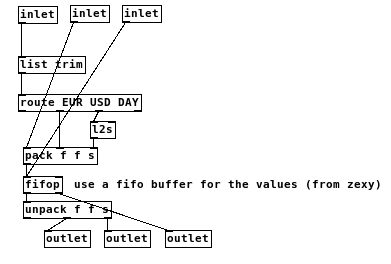
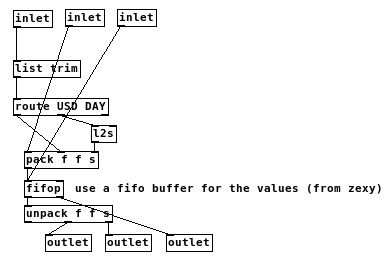
Correct and clarify examples and manual.

Changed region(s): [[0.031, 0.0, 0.9922, 0.9697], [0.2481, 0.1818, 0.2791, 0.2121]]

diff --git a/manual/rest-And-oauth-Making-HTTP-Requests.html b/manual/rest-And-oauth-Making-HTTP-Requests.html
@@ -27,7 +27,7 @@
 <p><code>[oauth]</code> is used for <a href="http://tools.ietf.org/html/rfc5849">OAuth 1.0</a> requests, and can issue <code>GET</code>, <code>POST</code>, <code>PUT</code>, <code>DELETE</code>, <code>HEAD</code>, <code>PATCH</code>, <code>OPTIONS</code> and <code>TRACE</code>. </p>
 <h2>Common Functionality</h2>
 <p>Both <code>[rest]</code> and <code>[oauth]</code> can be initialized with a base URL and additional parameters either as creation arguments or using the <code>[init(</code> message.</p>
-<p>Both objects can issue GET, POST, PUT, DELETE, HEAD, PATCH, OPTIONS and TRACE requests.</p>
+<p>Both objects can issue GET, POST, PUT, DELETE, HEAD, PATCH, OPTIONS, and TRACE requests.</p>
 <p>After a successful HTTP request (HTTP stati with a numerical value of at least 200 and less than 300), both objects will output the message body on the left outlet, followed by a <code>bang</code> on the right outlet. HTTP redirects by stati 301 and 302 are followed by the objects.</p>
 <p>If the HTTP result is not successful as defined above, then the right outlet will output a float with the HTTP error code, and on the console the HTTP status will be output as an error message, e.g. <code>HTTP error while performing request: 404</code> on console, <code>404</code> on right outlet.</p>
 <p>If there is an error during the HTTP request (timeout, DNS problems), then the right outlet will output a list with the cURL error code and the message, while additionally outputting the message on the console, e.g. <code>Error while performing request: Timeout was reached</code> on console, <code>28 Timeout was reached</code> on right outlet.</p>
@@ -44,27 +44,32 @@
 <p>Some webservices return different values for different <code>Accept:</code> HTTP headers. In that case, you can use
 <code>[header Accept: application/json(</code> to add the line <code>Accept: application/json</code> to the HTTP request.</p>
 <p>Github requires a <code>User-Agent:</code> HTTP header to return value. You can use <code>[header User-Agent: My User Agent(</code> to set the value.</p>
+<h3>Disabling Checking TLS Certificates</h3>
+<p>If the server uses a self-signed TLS certificate or the certificate authority (CA) is not recognised by your system, an SSL secured request will fail with an error message of <code>SSL peer certificate or SSH remote key was not OK</code> and a <code>51 SSL peer certificate or SSH remote key was not OK</code> on the right outlet. To disable checking for valid certificates, use a message of <code>[sslcheck 0(</code>. You can reenable the check with <code>[sslcheck 1(</code></p>
+<p><strong>Caveat:</strong></p>
+<p>Before doing that, <a href="http://pic.dhe.ibm.com/infocenter/wmqv7/v7r1/topic/com.ibm.mq.doc/sy10670_.htm">you should be aware of the risks</a>.</p>
+<h3>Using Proxies</h3>
+<p>You can configure the usage of a proxy with <code>[proxy(</code>. This message takes 0, 1 or 3 parameters. Use one parameter to set the URL of the proxy including protocol and port number. If your proxy needs username and passwortd, then add those as second and third additional parameter. To clear the proxy settings, use an empty <code>[proxy(</code> message.</p>
+<p><strong>Examples:</strong></p>
+<p><code>[proxy http://127.0.0.1:1234(</code> will set the proxy without username and password.</p>
+<p><code>[proxy socks5://127.0.0.1:2050 me mysecret(</code> will set the proxy using username <code>me</code> and password <code>mysecret</code>.</p>
 <h3>Downloading to File</h3>
 <p>The <code>[file(</code> message with an additional parameter will set the path to a file, where the downloaded content will be stored. This will not check immediately, if the file is writable, as this property in the file system may change any time.</p>
 <p>If a file path is set, then a successful download will not be output on the left outlet, but will be written to that location. If that location is not writable to Pd, then the content will generate output on the left outlet regardless, and post a message to the console.</p>
 <p>The right outlet of <code>[rest]</code> and <code>[oauth]</code> will output the same values as with a other HTTP request.</p>
 <p>To clear the download location, use a <code>[file(</code> message without a parameter.</p>
-<h3>Disabling Checking TLS Certificates</h3>
-<p>If the server uses a self-signed TLS certificate or the certificate authority (CA) is not recognised by your setup, an SSL secured request will fail with an error message of <code>SSL peer certificate or SSH remote key was not OK</code> and a <code>51 SSL peer certificate or SSH remote key was not OK</code> on the right outlet. To disable checking for valid certificates, use a message of <code>[sslcheck 0(</code>. You can reenable the check with <code>[sslcheck 1(</code></p>
-<p><strong>Caveat:</strong></p>
-<p>Before doing that, <a href="http://pic.dhe.ibm.com/infocenter/wmqv7/v7r1/topic/com.ibm.mq.doc/sy10670_.htm">you should be aware of the risks</a>.</p>
 <h3>Consuming Streaming API</h3>
 <p>If a service returns its data with a streaming API, you can output the data whenever a chunk is received. To set the mode to streaming, send a message <code>[mode stream(</code> to the object. To return to the standard blocking mode, send <code>[mode block(</code> to the object. The mode can be set during processing of a request.</p>
 <p>This is useful for webservices that keep connections open and send data on events, e.g. Twitter streaming API.</p>
 <h2><code>[rest]</code>: HTTP Requests</h2>
-<p><code>[rest]</code> accepts the following HTTP verbs: GET, POST, PUT, DELETE, HEAD, PATCH, TRACE and OPTIONS. The messages corresponding to the requests are <code>[GET(</code>, <code>[POST(</code>, <code>[PUT(</code>, <code>[DELETE(</code>, <code>[HEAD(</code>, <code>[PATCH(</code>, <code>[TRACE(</code> and <code>[OPTIONS(</code>, and these messages need at least one additional parameter, the URL of the requests. If you have set a base URL, the URL is concatenated with the base URL.</p>
+<p><code>[rest]</code> accepts the following HTTP verbs: GET, POST, PUT, DELETE, HEAD, PATCH, TRACE, and OPTIONS. The messages corresponding to the requests are <code>[GET(</code>, <code>[POST(</code>, <code>[PUT(</code>, <code>[DELETE(</code>, <code>[HEAD(</code>, <code>[PATCH(</code>, <code>[TRACE(</code>, and <code>[OPTIONS(</code>, and these messages need at least one additional parameter, the URL of the requests. If you have set a base URL, the URL is concatenated with the base URL.</p>
 <p><strong>Examples:</strong></p>
 <ul>
 <li>If the base URL is set to <code>http://www.example.com/</code>, then <code>[GET data/1(</code> will send an HTTP GET request to <code>http://www.example.com/data/1</code>.</li>
 <li>If no base URL is set, then <code>[DELETE http://www.example.com/data/1(</code> will send an HTTP DELETE request to <code>http://www.example.com/data/1</code>.</li>
 <li>If the base URL is set to <code>http://www.example.com/</code>, then <code>[GET http://www.example.com/data/1(</code> will send an HTTP GET request to <code>http://www.example.com/http://www.example.com/data/1</code> (and probably result in a 404 error).</li>
 </ul>
-<p><code>[POST(</code>, <code>[PUT(</code> and <code>[PATCH(</code> requests usually need additional data. This data is set as additional parameters. These parameters are concatenated with a space in between.</p>
+<p><code>[POST(</code>, <code>[PUT(</code>, and <code>[PATCH(</code> requests usually need additional data. This data is set as additional parameters. These parameters are concatenated with a space in between.</p>
 <p><strong>Example:</strong></p>
 <p><code>[POST http://www.example.com/data id=1&amp;name=my%20name(</code> will send an HTTP POST request to <code>http://www.example.com/data</code> and include <code>id=1&amp;name=my%20name</code> as POST parameters.</p>
 <h3>Initialization</h3>
@@ -97,13 +102,13 @@
 </ol>
 <p>Only the first returned cookie will be used, and only one value at a time will be saved. The parameters for sending the username and password to the server cannot be renamed. This works e.g. for CouchDB logins.</p>
 <h2><code>[oauth]</code>: OAuth 1.0 Requests</h2>
-<p><code>[oauth]</code> accepts the following HTTP verbs: GET, POST, PUT, DELETE, HEAD, PATCH, TRACE and OPTIONS. The messages corresponding to the requests are <code>[GET(</code>, <code>[POST(</code>, <code>[PUT(</code>, <code>[DELETE(</code>, <code>[HEAD(</code>, <code>[PATCH(</code>, <code>[TRACE(</code> and <code>[OPTIONS(</code>, and these messages need at least one additional parameter, the URL of the requests relative to the base URL.</p>
+<p><code>[oauth]</code> accepts the following HTTP verbs: GET, POST, PUT, DELETE, HEAD, PATCH, TRACE, and OPTIONS. The messages corresponding to the requests are <code>[GET(</code>, <code>[POST(</code>, <code>[PUT(</code>, <code>[DELETE(</code>, <code>[HEAD(</code>, <code>[PATCH(</code>, <code>[TRACE(</code>, and <code>[OPTIONS(</code>, and these messages need at least one additional parameter, the URL of the requests relative to the base URL.</p>
 <p><strong>Examples:</strong></p>
 <ul>
 <li>If the base URL is set to <code>http://www.example.com/</code>, then <code>[GET data/1(</code> will send an HTTP GET request to <code>http://www.example.com/data/1</code>.</li>
 <li>If the base URL is set to <code>http://www.example.com/</code>, then <code>[GET http://www.example.com/data/1(</code> will send an HTTP GET request to <code>http://www.example.com/http://www.example.com/data/1</code> (and probably result in a 404 error).</li>
 </ul>
-<p><code>[POST(</code>, <code>[PUT(</code> and <code>[PATCH(</code> requests usually need additional data. This data is set as additional parameters. These parameters are concatenated with a space in between.</p>
+<p><code>[POST(</code>, <code>[PUT(</code>, and <code>[PATCH(</code> requests usually need additional data. This data is set as additional parameters. These parameters are concatenated with a space in between.</p>
 <p><strong>Example:</strong></p>
 <p>If the base URL is set to <code>http://www.example.com/</code>, then <code>[POST data id=1&amp;name=my%20name(</code> will send an HTTP POST request to <code>http://www.example.com/data</code> and include <code>id=1&amp;name=my%20name</code> as POST parameters.</p>
 <h3>Initialization</h3>

diff --git a/manual/Contributing-and-Code-Documentation.html b/manual/Contributing-and-Code-Documentation.html
@@ -46,16 +46,18 @@
 </ol>
 <h3>Names of Setup Functions</h3>
 <p>When Pd tries to load an object, it is looking for the file with the correct platform specific suffix (.pd_linux, .pd_darwin, .dll, .pd_freebsd) and the same name, e.g. to create <code>[json-encode]</code>, Pd on Windows looks for a file <code>json-encode.dll</code>.</p>
-<p>In this library file, Pd looks for a setup function according, depending on the name of the object:
-If the name contains a special character, that cannot be used in a C symbol (<code>-</code>, <code>~</code>, <code>.</code>, etc.), then this special character is converted to a hex representation using <code>sprintf(symname+i, "0x%02x", c);</code> where <code>c</code> is the special character. This resulting name is prefixed by <code>setup_</code>. So the function for creating <code>[json-encode]</code> must be called <code>setup_json0x2dencode</code>.
-If the name can be converted to a C symbol, then the setup function must be the object name suffixed with <code>_setup</code>. So the function for creating <code>[urlparams]</code> must be called <code>urlparams_setup</code>.</p>
+<p>In this library file, Pd looks for a setup function according, depending on the name of the object:</p>
+<ul>
+	<li>If the name contains a special character, that cannot be used in a C symbol (<code>-</code>, <code>~</code>, <code>.</code>, etc.), then this special character is converted to a hex representation using <code>sprintf(symname+i, "0x%02x", c);</code> where <code>c</code> is the special character. This resulting name is prefixed by <code>setup_</code>. So the function for creating <code>[json-encode]</code> must be called <code>setup_json0x2dencode</code>.</li>
+	<li>If the name can be converted to a C symbol, then the setup function must be the object name suffixed with <code>_setup</code>. So the function for creating <code>[urlparams]</code> must be called <code>urlparams_setup</code>.</li>
+</ul>
 <h3>Names of Other Exported Functions</h3>
-<p>Throughout the code, the following conventions are used. If an object has a hyphen (<code>-</code>) in its name, then this is replaced by an underscore (<code>_</code>)</p>
+<p>If an object has a hyphen (<code>-</code>) in its name, then this is replaced by an underscore (<code>_</code>)</p>
 <ul>
 	<li>Creation functions: <code>&lt;OBJECT&gt;_new</code>, e.g. <code>rest_new</code>.</li>
 	<li>Destruction functions: <code>&lt;OBJECT&gt;_free</code>, e.g. <code>rest_free</code>. Not every object needs to clean up on destruction, do not create this function then.</li>
 	<li>Generic message functions: If the function should be called based on the type of content, then the corresponding function is <code>&lt;OBJECT&gt;_&lt;TYPE&gt;</code>, e.g. <code>json_decode_symbol</code>, <code>json_encode_bang</code>.</li>
-	<li>HTTP request messages <code>[GET(</code>, <code>[POST(</code>, <code>[PUT(</code>, and <code>[DELETE(</code>: <code>&lt;OBJECT&gt;_command</code>, e.g. <code>[GET(</code> on <code>[rest]</code> calls <code>rest_command</code>.</li>
+	<li>HTTP request messages <code>[GET(</code>, <code>[POST(</code>, <code>[PUT(</code>, <code>[DELETE(</code>, <code>[HEAD(</code>, <code>[PATCH(</code>, <code>[TRACE(</code>, and <code>[OPTIONS(</code>: <code>&lt;OBJECT&gt;_command</code>, e.g. <code>[GET(</code> on <code>[rest]</code> calls <code>rest_command</code>.</li>
 	<li>Message functions: Every <code>[MESSAGE(</code> for the object has a corresponding function <code>&lt;OBJECT&gt;_&lt;MESSAGE&gt;</code>, e.g. <code>[cancel(</code> on <code>[oauth]</code> calls the function <code>oauth_cancel</code>.</li>
 </ul>
 <h3>Names of Static Functions</h3>
@@ -68,7 +70,7 @@ If the name can be converted to a C symbol, then the setup function must be the 
 	<li><code>urlparams.c</code> =&gt; <code>urlp_</code></li>
 </ul>
 <h3>Content of Included Files</h3>
-<p>All .c files that do not have a matching .h file contain only static functions and are <code>#include</code>d in files defining the objects. They have the following properties:</p>
+<p>All .c files that do not have a matching .h file contain only static functions and are <code>#include</code>d in files defining the objects. These source files are in subfolder <code>src/inc/</code>. They have the following properties:</p>
 <h4>ctw.c</h4>
 <p>ctw is short for <strong>c</strong>url <strong>t</strong>hread <strong>w</strong>rapper. As the name suggests, it contain functions for using threading for making requests with libcurl. </p>
 <p>This file is used in <code>[oauth]</code> and <code>[rest]</code>. In both objects, a <code>struct _ctw</code> is the first member, so that casting is possible. </p>

diff --git a/manual/json-decode-And-json-encode-JSON-Data-in-Pd.html b/manual/json-decode-And-json-encode-JSON-Data-in-Pd.html
@@ -41,7 +41,7 @@
 
 <p>As you can infer from the table, values of <code>true</code>, <code>false</code>, or <code>null</code> cannot be constructed by <code>[json-encode]</code>, but can be read by the objects. A value of null yields a Pd value of an empty symbol.</p>
 <h2><code>[json-decode]</code></h2>
-<p>Feeding a symbol or list to <code>[json-decode]</code> will parse the values and generate an output. If you use a list, then all elements of the list will be converted to symbols and concatenated using a space as separator, so <code>symbol my value</code> will generate the same output as <code>my value</code>.</p>
+<p>Feeding a symbol or list to <code>[json-decode]</code> will parse the values and generate an output. If you use a list, then all elements of the list will be converted to symbols and concatenated using a space as separator, so <code>symbol my value</code> will generate the same output as <code>list my value</code>.</p>
 <p>You must feed exactly one valid JSON object or array of objects as a symbol or list message to <code>[json-decode]</code>. Any other correct JSON data cannot be interpreted by the <code>[json-decode]</code>.</p>
 <h3>Output of a JSON object</h3>
 <p>JSON objects are interpreted by <code>[json-decode]</code> as key value stores. Each key/value pair outputs a list on the left outlet, where the key is always converted to a symbol, while the value is converted according to the table above. Arrays and objects are converted to their string representation again and then output as a symbol.</p>
@@ -95,7 +95,7 @@
 <ul>
 <li>Use <code>list trim</code> from list-abs for trimming the list selector off the output and then use <code>[route]</code> for the data. If you want to create new lists, feed them into <code>[pack]</code>.</li>
 <li>If you process an array of same object types, use the approach above and store the values in a FIFO buffer, e. g. <code>[fifop]</code> from zexy or <code>[list-fifo]</code> from list-abs.</li>
-<li>Do not expect JSON data to be ordered: <code>{"id": 1, "name: "my name"}</code> and <code>{"name": "my name", "id": 1}</code> are in fact the same object. Use <code>[pack]</code> and the <code>bang</code> from the right outlet to create your own lists.</li>
+<li>Do not expect JSON data to be ordered: <code>{"id": 1, "name: "my name"}</code> and <code>{"name": "my name", "id": 1}</code> are in fact the same object. Use an empty first inlet of <code>[pack]</code> and the <code>bang</code> from the right outlet to create your own lists.</li>
 </ul>
 <h2><code>[json-encode]</code></h2>
 <h3>Reading and Writing JSON files</h3>
@@ -113,7 +113,7 @@
 - <code>[add key 1(</code> will store <code>{"key":1}</code>.
 - <code>[add key first second third(</code> will store <code>{"key":"first second third"}</code>.
 - <code>[add key {"first":"second third"}(</code> will store <code>{"key":{first: "second third"}}</code>.</p>
-<p><code>[array(</code> will add data to an array with the name of the key. The members of the array will be sorted in the specified order. If a value with the same key exists, that already exists, but was stored with <code>[add(</code>, the value will be discarded. A new <code>[add(</code> message with the same key will discard the stored array.</p>
+<p><code>[array(</code> will add data to an array with the name of the key. The members of the array will be sorted in the specified order. If a value with the same key exists, but was stored with <code>[add(</code>, the value will be discarded. A new <code>[add(</code> message with the same key will discard the stored array.</p>
 <p><strong>Example:</strong></p>
 <ol>
 <li><code>[add id 1(</code> =&gt; <code>{"id": 1}</code>.</li>
@@ -122,7 +122,7 @@
 <li><code>[add id 4(</code> =&gt; <code>{"id": 4}</code>.</li>
 </ol>
 <h3>Outputting And Clearing Data</h3>
-<p>Issuing a <code>[bang(</code> message to <code>[json-encode]</code> will output the JSON object as string on its only outlet. If no data is stored, an empty symbol is sent.</p>
+<p>Issuing a <code>[bang(</code> message to <code>[json-encode]</code> will output the JSON object as a string on its only outlet. If no data is stored, an empty symbol is sent.</p>
 <p>You can clear the stored object with the <code>[clear(</code> method. </p>
               </div>
             </div>

diff --git a/manual/Using-Pd-as-Twitter-Client.html b/manual/Using-Pd-as-Twitter-Client.html
@@ -36,10 +36,10 @@ Most of these is done under the hood of <code>[oauth]</code>. What you will lear
 <p><strong>Caveat!</strong> This document makes some assumptions, which were true at the time of the last edit (May 2015): My client credentials are still valid, despite me giving it away in the example patch. Twitter have not changed their API, or the API is still supported.</p>
 <p>This document goes through the file <code>twitter-client.pd</code> in the examples step by step.</p>
 <h2>Setting Up Your Application</h2>
-<p>All information about the Twitter API can be found at <a href="https://dev.twitter.com/"><a href="https://dev.twitter.com/">https://dev.twitter.com/</a></a>.</p>
+<p>All information about the Twitter API can be found at <a href="https://dev.twitter.com/">https://dev.twitter.com/</a>.</p>
 <p>For this tutorial, we will use PuREST JSON as a registered application. This application has both read and write access. If you want to reliably use Pd as a Twitter client, and / or want to restrict your client to read access only, you will need to register your client.</p>
 <h3>Registering Your Client</h3>
-<p>Login at <a href="https://dev.twitter.com/"><a href="https://dev.twitter.com/">https://dev.twitter.com/</a></a> with your Twitter login. Click on the <em>create your application</em> and create your application. Leave the field <em>Callback URL</em> empty.</p>
+<p>Login at <a href="https://dev.twitter.com/">https://dev.twitter.com/</a> with your Twitter login. Click on the <em>create your application</em> and create your application. Leave the field <em>Callback URL</em> empty.</p>
 <p>After registering your application, you get your consumer key and secret. These are needed for any communication with twitter.</p>
 <p>On that page, you can also create your own access token and access token secret.</p>
 <h3>Getting Access Token and Access Token Secret</h3>
@@ -55,7 +55,7 @@ Most of these is done under the hood of <code>[oauth]</code>. What you will lear
 
 
 <p>Now we have an temporary access token / secret pair. With this pair, we need to tell our user (YOU!) to go to Twitter and get a PIN to generate the real access token / secret pair.</p>
-<p>Open a web browser and go to <a href="https://api.twitter.com/oauth/authorize?oauth_token=(YOUR_TEMP_TOKEN">https://api.twitter.com/oauth/authorize?oauth_token=(YOUR_TEMP_TOKEN</a>)&amp;oauth_token_secret=(YOUR_TEMP_TOKEN_SECRET)&amp;oauth_callback_confirmed=true. This will get you to a website, where you can authorize PuREST JSON for using the Twitter API. After authorization, you will see YOUR_PIN in large friendly letters printed on a web page. We will need these for the next step.</p>
+<p>Open a web browser and go to https://api.twitter.com/oauth/authorize?oauth_token=(YOUR_TEMP_TOKEN)&amp;oauth_token_secret=(YOUR_TEMP_TOKEN_SECRET)&amp;oauth_callback_confirmed=true. This will get you to a website, where you can authorize PuREST JSON for using the Twitter API. After authorization, you will see YOUR_PIN in large friendly letters printed on a web page. We will need these for the next step.</p>
 <p>Now you get a PIN. This PIN will enable you to create your access token and access token key.</p>
 <p>First, we have to tell <code>[oauth]</code> to use your new oauth access token and credentials. To do so, we will need to use the temporary access token / secret pair for signing the next OAuth request. We can do this either by editing the creation values of <code>[oauth]</code> or by sending a <code>[init BASE_URL CONSUMER_KEY CONSUMER_SECRET YOUR_TEMP_TOKEN YOUR_TEMP_TOKEN_SECRET(</code> to it. Use your return values from before.
 Now send the PIN to Twitter to finally generate the read access token / secret pair. Use <code>[POST access_token oauth_identifier=YOUR_PIN(</code> for <code>[oauth]</code> to do so.</p>

diff --git a/manual/Using-JSON-Data-as-Pitch-Generator.html b/manual/Using-JSON-Data-as-Pitch-Generator.html
@@ -23,41 +23,29 @@
               <div class="markdown-body entry-content">
 				  <p><a href="index.html">Home</a></p>
                 <p>This tutorial will show you, how you can get data from a simple RESTful webservice and generate sound from it.</p>
-<p>In the examples folder, you can find the patch <code>the-sound-of-money.pd</code>. You will only need to fill in your credentials, that you will get with the patch itself.</p>
 <p>In this tutorial, I will use the following notation:<br>
 <code>[my object]</code>: an object with the name "my-object".<br>
 <code>[my own message(</code>: a message with the content "my own message".</p>
 <h2>Getting the Data</h2>
-<p>This example gets the daily trading prices of Bitcoin starting from September 2011. This is made with <a href="https://scraperwiki.com/">Scraperwiki</a>, an online service that lets you scrape webpages or download data on regular intervals. In that case, it calls the API of <a href="http://bitcoincharts.com/"><a href="http://bitcoincharts.com/">http://bitcoincharts.com/</a></a> once a day for weighted Bitcoin prices in the last 24 hours in Euro and US Dollar.</p>
-<p>Data is stored in an SQLite database, and Scraperwiki offers a JSON API for querying the database.</p>
+<p>This example gets the daily trading prices of Bitcoin. In its current implementation, it takes the data from <a href="https://bitcoinaverage.com/api">Bitcoin Average</a>, and translates the data from csv to JSON.</p>
 <p><img alt="The patch" src="bitcoin-full.png" /></p>
-<p>The query in this example:</p>
-<div class="highlight"><pre>select 
-    strftime(&#39;%Y-%m-%d&#39;,
-        datetime(DATE, &#39;unixepoch&#39;)) as DAY,
-    cast(USD as real) as USD,
-    cast(EUR as real) as EUR
-from swdata
-order by DATE
-</pre></div>
-
 
 <p>After designing the data online, we query the webservice with a GET request using <code>[rest]</code>.</p>
 <p>The data then looks something like this:</p>
 <div class="highlight"><pre>[
-    {&quot;DAY&quot;: &quot;2011-09-30&quot;, &quot;USD&quot;: 4.8743, &quot;EUR&quot;: 3.7406}, 
-    {&quot;DAY&quot;: &quot;2011-10-01&quot;, &quot;USD&quot;: 5.0825, &quot;EUR&quot;: 3.8489}, 
-    {&quot;DAY&quot;: &quot;2011-10-03&quot;, &quot;USD&quot;: 4.985, &quot;EUR&quot;: 3.8434}, 
-    {&quot;DAY&quot;: &quot;2011-10-04&quot;, &quot;USD&quot;: 4.9573, &quot;EUR&quot;: 3.7857}
+    {"DAY":"2010-07-17","USD":0.05,"VOLUME":20},
+    {"DAY":"2010-07-18","USD":0.07,"VOLUME":75.01},
+    {"DAY":"2010-07-19","USD":0.09,"VOLUME":574},
+    {"DAY":"2010-07-20","USD":0.08,"VOLUME":262}
 ]
 </pre></div>
 
 
 <p>When the data is received, the returned value is fed into <code>[json-decode]</code>. As the symbol atom from <code>[rest]</code> will be a JSON array, we will get messages for each JSON object on the left outlet followed by a bang on the right outlet. </p>
 <p>A sequence of messages for an object looks like this:</p>
-<div class="highlight"><pre>list DAY 2012-01-05
-list USD 5.39
-list EUR 4.06
+<div class="highlight"><pre>list DAY 2012-09-22
+list USD 12.2
+list VOLUME 16883.95
 </pre></div>
 
 

diff --git a/manual/urlparams-Creating-Query-Strings.html b/manual/urlparams-Creating-Query-Strings.html
@@ -26,23 +26,23 @@
 <h2>Storing Data with <code>[add(</code></h2>
 <p>The <code>[add(</code> message needs at least two parameters: key and value. Any additional parameters are concatenated to the value with a space. A key/value pair is output with a <code>=</code> separator, while all key/value pairs are concatenated with a <code>&amp;</code>. Special characters will be URL encoded.</p>
 <p>Adding a value with an already stored key will result in overwriting the existing value.</p>
-<p><strong>Examples:</strong>
-- <code>[add key 1(</code> will store <code>key=1</code>
-- <code>[add name My Name(</code> will store <code>name=My%20Name</code>
-- <code>[add key 1(</code>, <code>[add name My Name(</code>, <code>[add key 2(</code> will store <code>key=2&amp;name=My%20Name</code>
-- <code>[add key @me with #hashtag(</code> will store <code>key=%40me%20with%20%23hashtag</code></p>
+<p><strong>Examples:</strong></p>
+<ul>
+	<li><code>[add key 1(</code> will store <code>key=1</code></li>
+	<li><code>[add name My Name(</code> will store <code>name=My%20Name</code></li>
+	<li><code>[add key 1(</code>, <code>[add name My Name(</code>, <code>[add key 2(</code> will store <code>key=2&amp;name=My%20Name</code></li>
+	<li><code>[add key @me with #hashtag(</code> will store <code>key=%40me%20with%20%23hashtag</code></li>
+</ul>
 <h2>Outputting And Clearing Data</h2>
 <p>Issuing a <code>[bang(</code> message to <code>[urlparams]</code> will output the stored key/value pairs as string on its only outlet. If no data is stored, an empty symbol is sent.</p>
 <p>You can clear the stored object with the <code>[clear(</code> method. </p>
-              </div>
-            </div>
-          </div>
-        
-
-      </div>
-    </div>
-  </div>
-  <div>&nbsp;</div>
+			  </div>
+			</div>
+		  </div>
+	  </div>
+	</div>
+	</div>
+	<div>&nbsp;</div>
   </div>
 </body>
 </html>

diff --git a/manual/Compilation.html b/manual/Compilation.html
@@ -24,7 +24,7 @@
 				  <p><a href="index.html">Home</a></p>
                 <p>Compilation should be working on Linux, Windows with MinGW and Mac OS X. You will need header files of Puredata, as well as <a href="http://curl.haxx.se/">libcurl</a>, <a href="https://github.com/json-c/json-c">json-c</a>, and <a href="http://liboauth.sourceforge.net/">liboauth</a>.</p>
 <p>The package build script is based on the <a href="https://puredata.info/docs/developer/LibraryTemplate">Pd library template</a>.</p>
-<p>With version 0.11, json-c have changed the library path and name. If your system has an older version of json-c, please use the branch <code>json-c-0.10</code> for compiling, but this branch is only updated on new releases.</p>
+<p>With version 0.11, json-c have changed the library path and name. If your system has an older version of json-c, you have to apply the patch <code>old-json-c-version.patch</code> via <code>patch -p1 < old-json-c-version.patch</code>. </p>
 <p>When you use static versions of libcurl, i.e. on Windows and Mac OS X, you will need the file <a href="http://curl.haxx.se/docs/caextract.html">cacert.pem from the libcurl website</a>. Put the downloaded file in the directory of PuREST JSON.</p>
 <p>If you have gotten the source code from git, you will first have to init the <a href="http://troydhanson.github.io/uthash/">uthash</a> submodule by running <code>git submodule update --init</code>.</p>
 <h2>Linux</h2>

diff --git a/manual/index.html b/manual/index.html
@@ -38,9 +38,9 @@ and encoding and decoding JSON data.</p>
 </ul>
 <h2>Detailed Documentation for Objects</h2>
 <ul>
-	<li><a href="%5Bjson-decode%5D-And-%5Bjson-encode%5D:-JSON-Data-in-Pd.html">[json decode] and [json encode]: JSON Data in Pd</a></li>
-	<li><a href="%5Brest%5D-And-%5Boauth%5D:-Making-HTTP-Requests.html">[rest] and [oauth]: Making HTTP Requests</a></li>
-<li><a href="%5Burlparams%5D:-Creating-Query-Strings.html">[urlparams]: Creating Query Strings</a></li>
+	<li><a href="json-decode-And-json-encode-JSON-Data-in-Pd.html">[json decode] and [json encode]: JSON Data in Pd</a></li>
+	<li><a href="rest-And-oauth-Making-HTTP-Requests.html">[rest] and [oauth]: Making HTTP Requests</a></li>
+<li><a href="urlparams-Creating-Query-Strings.html">[urlparams]: Creating Query Strings</a></li>
 </ul>
 <h2>Developers</h2>
 <ul>
